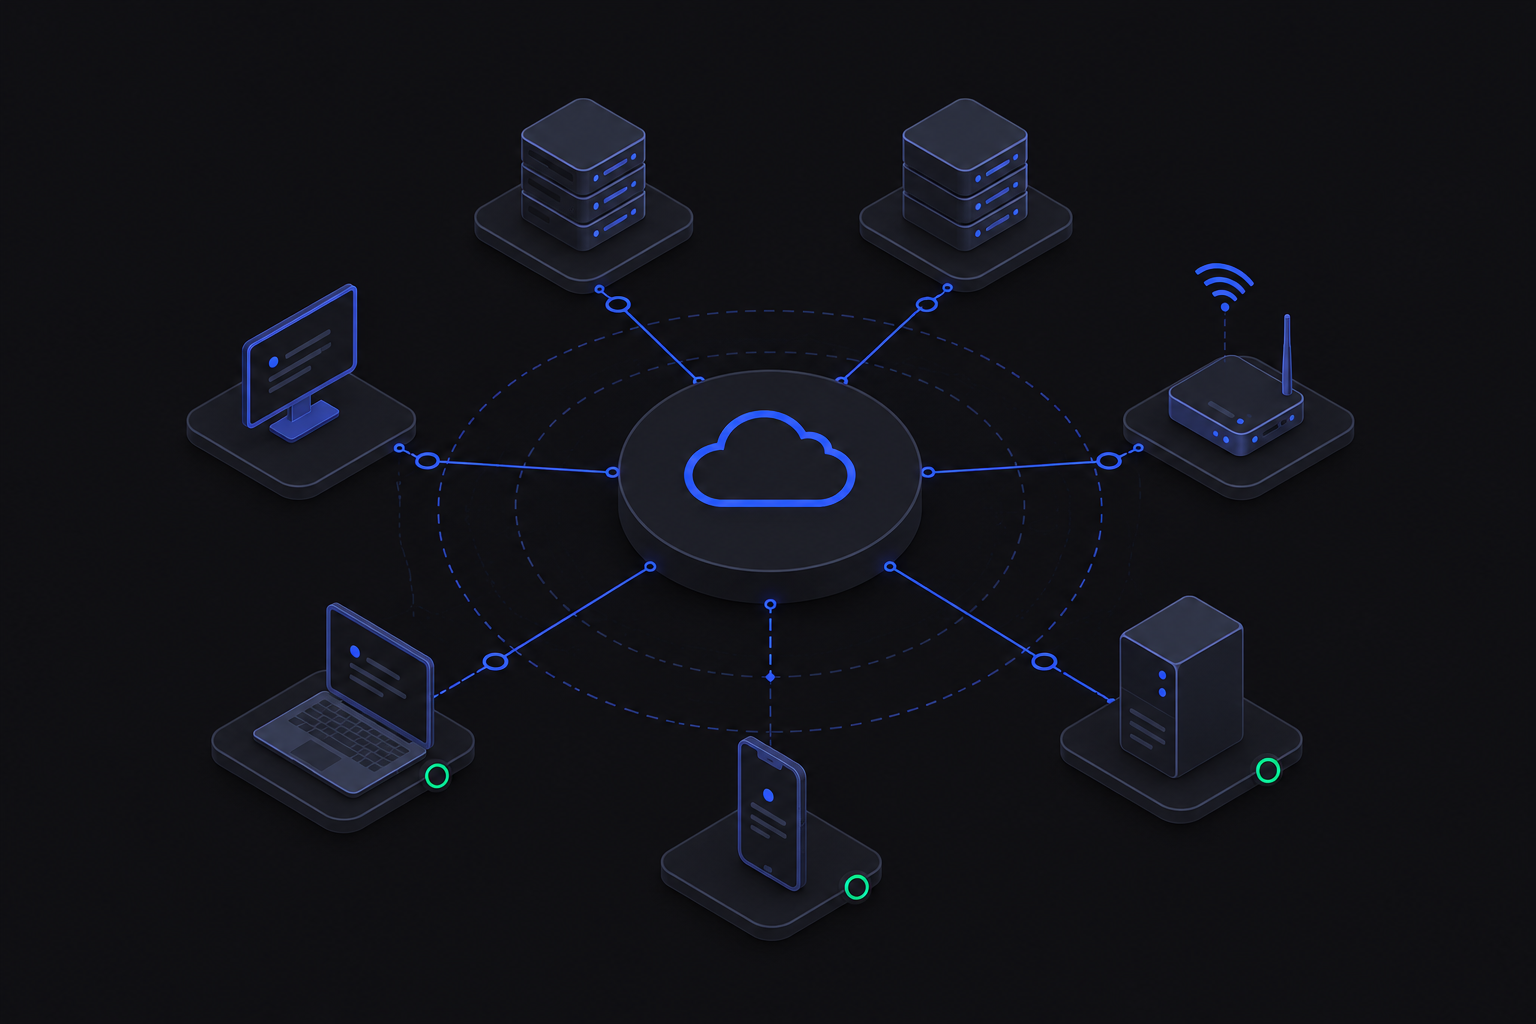
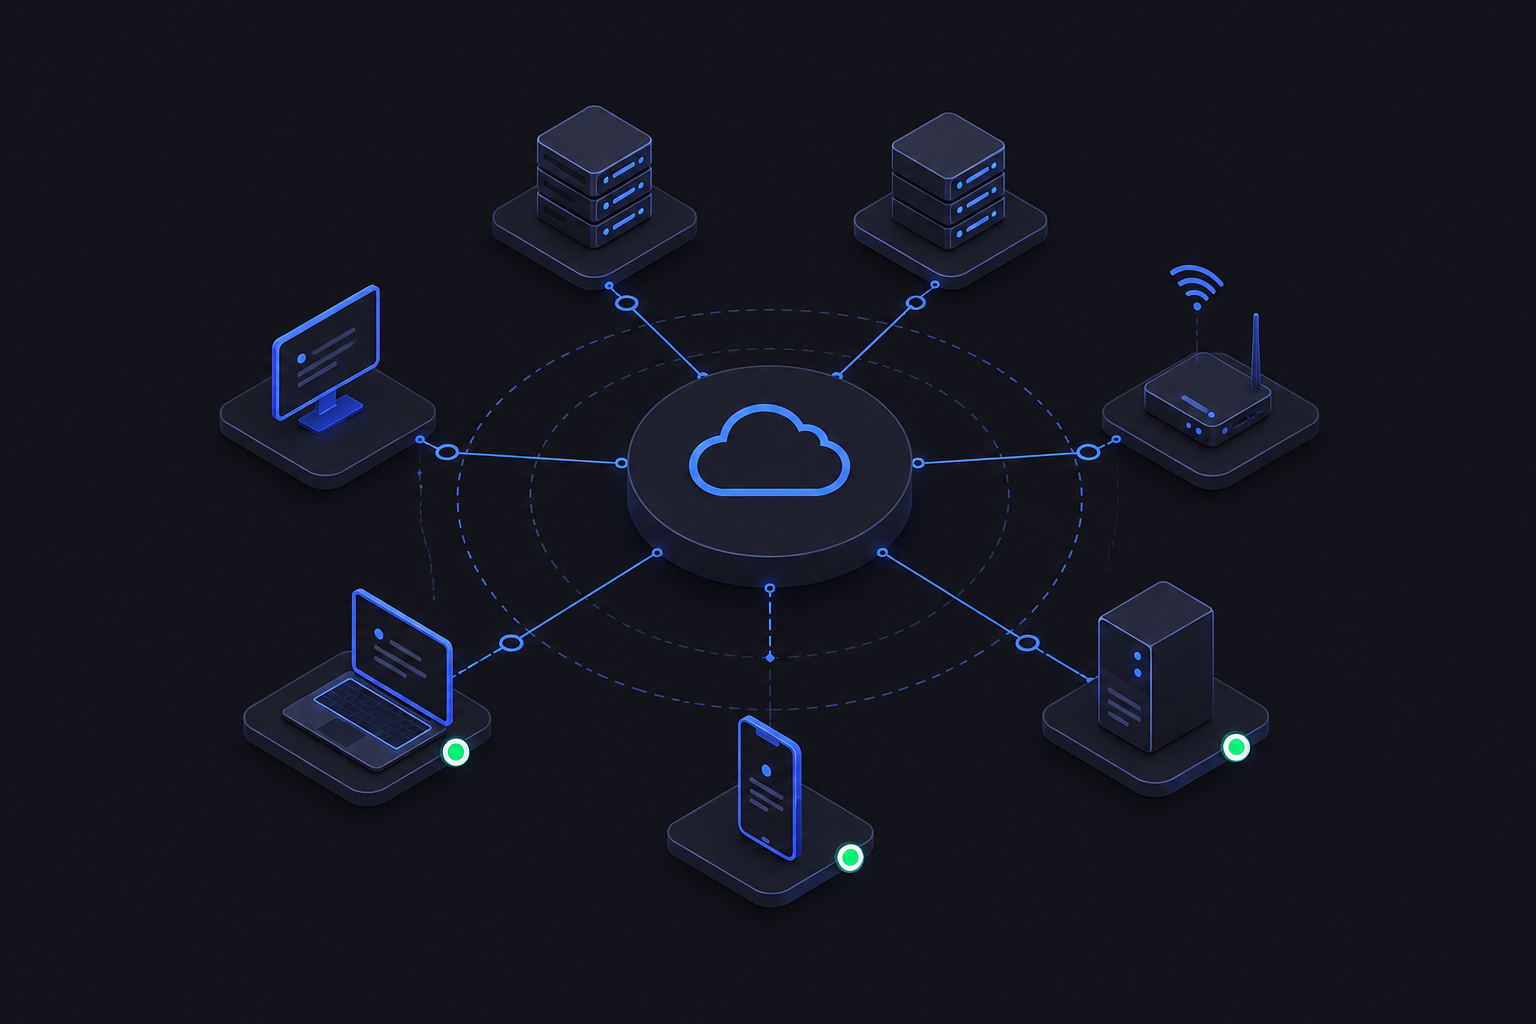
update fonts, images, styles and add robots.txt

diff --git a/docs/.vitepress/config.ts b/docs/.vitepress/config.ts
@@ -31,9 +31,15 @@ const guideRu = [
 
 // Must match the repository name: GitHub Pages serves the site from a subpath.
 // `head` link hrefs are not rewritten with `base` by VitePress the way
-// theme-config asset fields (e.g. `logo`) are, so favicon links below prefix
-// it by hand.
+// theme-config asset fields (e.g. `logo`) are, so favicon and OG links below
+// prefix it by hand.
 const base = '/vue-asset-map/'
+
+// Matches `homepage` in package.json. `sitemap.hostname` is resolved against
+// with each page's base-relative URL, so it has to include the base path
+// itself — otherwise every sitemap entry would drop the `/vue-asset-map/` prefix.
+const hostname = 'https://legionliner.github.io/vue-asset-map/'
+const ogImage = `${hostname}hero-light.png`
 
 export default defineConfig({
   base,
@@ -41,6 +47,8 @@ export default defineConfig({
   lastUpdated: true,
   cleanUrls: true,
   ignoreDeadLinks: false,
+
+  sitemap: { hostname },
 
   head: [
     ['link', { rel: 'icon', type: 'image/svg+xml', href: `${base}logo-light.svg` }],
@@ -62,7 +70,34 @@ export default defineConfig({
         href: `${base}logo-dark.svg`,
       },
     ],
+    ['meta', { name: 'robots', content: 'index, follow' }],
+    ['meta', { property: 'og:type', content: 'website' }],
+    ['meta', { property: 'og:site_name', content: 'vue-asset-map' }],
+    ['meta', { property: 'og:image', content: ogImage }],
+    ['meta', { name: 'twitter:card', content: 'summary_large_image' }],
+    ['meta', { name: 'twitter:image', content: ogImage }],
   ],
+
+  // Per-page tags that need the resolved title/description/URL: adds a
+  // canonical link (the same content is reachable at "/" and "/index",
+  // canonical says which one counts) plus OG/Twitter title, description and
+  // url so shared links render a real preview instead of a bare URL.
+  transformHead({ pageData, siteData, title, description }) {
+    if (pageData.isNotFound) return [['meta', { name: 'robots', content: 'noindex' }]]
+
+    const path = pageData.relativePath.replace(/(^|\/)index\.md$/, '$1').replace(/\.md$/, '')
+    const canonicalUrl = `${hostname}${path}`
+
+    return [
+      ['link', { rel: 'canonical', href: canonicalUrl }],
+      ['meta', { property: 'og:url', content: canonicalUrl }],
+      ['meta', { property: 'og:title', content: title }],
+      ['meta', { property: 'og:description', content: description }],
+      ['meta', { property: 'og:locale', content: siteData.lang.replace('-', '_') }],
+      ['meta', { name: 'twitter:title', content: title }],
+      ['meta', { name: 'twitter:description', content: description }],
+    ]
+  },
 
   vite: {
     resolve: {
@@ -99,6 +134,7 @@ export default defineConfig({
       lang: 'en-US',
       description: 'Interactive infrastructure asset map for Vue 3, built on Vue Flow',
       themeConfig: {
+        siteTitle: 'VueAssetMap',
         nav: [
           { text: 'Guide', link: '/guide/getting-started' },
           { text: 'API', link: '/api/' },

diff --git a/docs/.vitepress/demos/PathTraceMap.vue b/docs/.vitepress/demos/PathTraceMap.vue
@@ -43,7 +43,7 @@ onMounted(trace)
     auto-fit-view
   >
     <template #toolbar-right>
-      <span class="demo-toolbar-button demo-toolbar-button--hint"> Shift-click two nodes, then trace </span>
+      <span class="demo-toolbar-button demo-toolbar-button--hint">Shift-click two nodes, then trace</span>
       <button type="button" class="demo-toolbar-button" :disabled="selection.length !== 2" @click="trace">
         Trace path ({{ selection.length }}/2 selected)
       </button>

diff --git a/docs/.vitepress/theme/custom.css b/docs/.vitepress/theme/custom.css
@@ -1,0 +1,15 @@
+.VPHero .image .image-container {
+    transform: translate(0px, 0px);
+}
+
+.VPHero .image .image-src {
+    max-width: 500px;
+    max-height: 500px;
+}
+
+@media (min-width: 640px) {
+    .VPHero .image .image-src {
+        max-width: 380px;
+        max-height: 380px;
+    }
+}

diff --git a/docs/.vitepress/theme/index.ts b/docs/.vitepress/theme/index.ts
@@ -5,6 +5,7 @@ import '@vue-flow/core/dist/style.css'
 import 'vue-asset-map/style.css'
 import './fonts.css'
 import './demo.css'
+import './custom.css'
 
 import LiveDemo from './LiveDemo.vue'
 import BasicMap from '../demos/BasicMap.vue'

diff --git a/docs/api/index.md b/docs/api/index.md
@@ -17,33 +17,33 @@ The map. Generic over the payload types of `entity.meta` and `link.meta`: `Asset
 
 #### Props
 
-| Prop                        | Type                                | Default                | Description                                            |
-| --------------------------- | ------------------------------------ | ---------------------- | -------------------------------------------------------- |
-| `entities`                  | `AssetEntity<E>[]`                 | —                      | The map's nodes.                                     |
-| `links`                     | `AssetLink<L>[]`                   | —                      | The map's edges.                                     |
-| `views`                     | `AssetView[]`                      | —                      | The views.                                            |
-| `nodeTypes`                 | `Record<string, Component>`        | —                      | Node components by `type`, merged over the built-ins. |
-| `edgeTypes`                 | `Record<string, Component>`        | —                      | Edge components by `type`.                            |
-| `layout`                    | `AssetMapLayoutSpec`               | `{ engine: 'manual' }` | Layout engine by name or instance, plus its options.  |
-| `collapse`                  | `CollapseRule \| false`            | `{ threshold: 10 }`    | Group collapse rule; `false` disables collapsing.     |
-| `filterOptions`             | `FilterOptions`                    | —                      | Search fields, neighbour depth, filter groups.        |
-| `theme`                     | `ThemeMode`                        | `'light'`               | Theme mode: `'light'`, `'dark'` or `'auto'`.          |
-| `themeConfig`               | `ThemeConfig`                      | —                      | `statusColors` and `kindIcons`.                       |
-| `locale`                    | `string \| PartialLocaleMessages`  | `'ru'`                 | Locale code or an override dictionary.                |
-| `showToolbar`               | `boolean`                          | `true`                 | Visibility of the built-in controls.                  |
-| `showDetailsPanel`          | `boolean`                          | `true`                 | Opening of details windows on click.                  |
-| `showMinimap`               | `boolean`                          | `false`                | Visibility of the overview map.                       |
-| `maxDetailsWindows`         | `number`                           | `2`                    | Cap on open windows; `0` disables windows.            |
-| `neighborHighlightDepth`    | `number`                           | `1`                    | Steps of a selection that stay lit; `0` disables.     |
-| `infected`                  | `EntityId[]`                       | —                      | Infection sources for `blastRadius`.                  |
-| `infectionOptions`          | `InfectionOptions`                 | —                      | `direction`, `maxDepth`, `layers` of the spread.      |
-| `markers`                   | `NodeMarkerDef[]`                  | —                      | Membership dots under the labels.                     |
-| `markerHoverDelay`          | `number`                           | `500`                  | Delay in ms before a hovered dot highlights.          |
-| `onlyRenderVisibleElements` | `boolean`                          | `true`                 | Mounting of only what is in the viewport.             |
-| `lodThreshold`              | `number`                           | `0.5`                  | Zoom below which nodes render simplified.             |
-| `searchDebounce`            | `number`                           | `200`                  | Delay in ms before a typed query applies.             |
-| `loading`                   | `boolean`                          | `false`                | Loading indicator.                                    |
-| `autoFitView`               | `boolean`                          | `false`                | Auto-fit of the canvas to its content after layout.   |
+| Prop                        | Type                              | Default                | Description                                           |
+| --------------------------- | --------------------------------- | ---------------------- | ----------------------------------------------------- |
+| `entities`                  | `AssetEntity<E>[]`                | —                      | The map's nodes.                                      |
+| `links`                     | `AssetLink<L>[]`                  | —                      | The map's edges.                                      |
+| `views`                     | `AssetView[]`                     | —                      | The views.                                            |
+| `nodeTypes`                 | `Record<string, Component>`       | —                      | Node components by `type`, merged over the built-ins. |
+| `edgeTypes`                 | `Record<string, Component>`       | —                      | Edge components by `type`.                            |
+| `layout`                    | `AssetMapLayoutSpec`              | `{ engine: 'manual' }` | Layout engine by name or instance, plus its options.  |
+| `collapse`                  | `CollapseRule \| false`           | `{ threshold: 10 }`    | Group collapse rule; `false` disables collapsing.     |
+| `filterOptions`             | `FilterOptions`                   | —                      | Search fields, neighbour depth, filter groups.        |
+| `theme`                     | `ThemeMode`                       | `'light'`              | Theme mode: `'light'`, `'dark'` or `'auto'`.          |
+| `themeConfig`               | `ThemeConfig`                     | —                      | `statusColors` and `kindIcons`.                       |
+| `locale`                    | `string \| PartialLocaleMessages` | `'ru'`                 | Locale code or an override dictionary.                |
+| `showToolbar`               | `boolean`                         | `true`                 | Visibility of the built-in controls.                  |
+| `showDetailsPanel`          | `boolean`                         | `true`                 | Opening of details windows on click.                  |
+| `showMinimap`               | `boolean`                         | `false`                | Visibility of the overview map.                       |
+| `maxDetailsWindows`         | `number`                          | `2`                    | Cap on open windows; `0` disables windows.            |
+| `neighborHighlightDepth`    | `number`                          | `1`                    | Steps of a selection that stay lit; `0` disables.     |
+| `infected`                  | `EntityId[]`                      | —                      | Infection sources for `blastRadius`.                  |
+| `infectionOptions`          | `InfectionOptions`                | —                      | `direction`, `maxDepth`, `layers` of the spread.      |
+| `markers`                   | `NodeMarkerDef[]`                 | —                      | Membership dots under the labels.                     |
+| `markerHoverDelay`          | `number`                          | `500`                  | Delay in ms before a hovered dot highlights.          |
+| `onlyRenderVisibleElements` | `boolean`                         | `true`                 | Mounting of only what is in the viewport.             |
+| `lodThreshold`              | `number`                          | `0.5`                  | Zoom below which nodes render simplified.             |
+| `searchDebounce`            | `number`                          | `200`                  | Delay in ms before a typed query applies.             |
+| `loading`                   | `boolean`                         | `false`                | Loading indicator.                                    |
+| `autoFitView`               | `boolean`                         | `false`                | Auto-fit of the canvas to its content after layout.   |
 
 `entities` and `links` are read-only for the map: it never adds, reorders or normalises fields in the input arrays.
 Without `views`, everything is drawn.

diff --git a/docs/ru/api/index.md b/docs/ru/api/index.md
@@ -2,12 +2,12 @@
 
 Всё, что экспортирует пакет. Точек входа четыре:
 
-| Импорт                       | Что внутри                                            |
-| ---------------------------- | ----------------------------------------------------- |
-| `vue-asset-map`              | Компоненты, composables, типы и всё содержимое ядра.  |
-| `vue-asset-map/core`         | Функции по графу без Vue и без Vue Flow.              |
+| Импорт                       | Что внутри                                              |
+| ---------------------------- | ------------------------------------------------------- |
+| `vue-asset-map`              | Компоненты, composables, типы и всё содержимое ядра.    |
+| `vue-asset-map/core`         | Функции по графу без Vue и без Vue Flow.                |
 | `vue-asset-map/layout-dagre` | Алгоритм раскладки dagre, за опциональной зависимостью. |
-| `vue-asset-map/style.css`    | Токены, светлая и тёмная темы, правила компонентов.   |
+| `vue-asset-map/style.css`    | Токены, светлая и тёмная темы, правила компонентов.     |
 
 ## Компонент
 
@@ -17,7 +17,7 @@
 
 #### Props
 
-| Prop                        | Тип                               | По умолчанию           | Что делает                                          |
+| Prop                        | Тип                               | По умолчанию           | Что делает                                           |
 | --------------------------- | --------------------------------- | ---------------------- | ---------------------------------------------------- |
 | `entities`                  | `AssetEntity<E>[]`                | —                      | Узлы карты.                                          |
 | `links`                     | `AssetLink<L>[]`                  | —                      | Связи карты.                                         |

diff --git a/CHANGELOG.md b/CHANGELOG.md
@@ -3,6 +3,21 @@
 The format is based on [Keep a Changelog](https://keepachangelog.com/en/1.1.0/), and this project adheres to
 [Semantic Versioning](https://semver.org/spec/v2.0.0.html).
 
+## 1.0.3 — 2026-07-26
+
+### Added
+
+- `sitemap.xml`, `robots.txt` and per-page canonical/Open Graph/Twitter Card meta tags on the docs site, so pages are
+  indexable and share links render a title, description and preview image.
+- IBM Plex Mono as the site-wide typeface, replacing the default theme font.
+- The project logo in the docs header and as the browser favicon, and a hero image on the landing page — both
+  switching with the site's light/dark theme.
+
+### Fixed
+
+- Example maps on the docs site now follow the site's own dark-mode toggle instead of always rendering in light
+  theme.
+
 ## 1.0.2 — 2026-07-26
 
 ### Changed

diff --git a/docs/index.md b/docs/index.md
@@ -2,7 +2,7 @@
 layout: home
 
 hero:
-  name: vue-asset-map
+  # name: vue-asset-map
   text: Infrastructure asset map for Vue 3
   tagline: A component for entities, links and views of one graph, with search, filters and path tracing.
   image:
